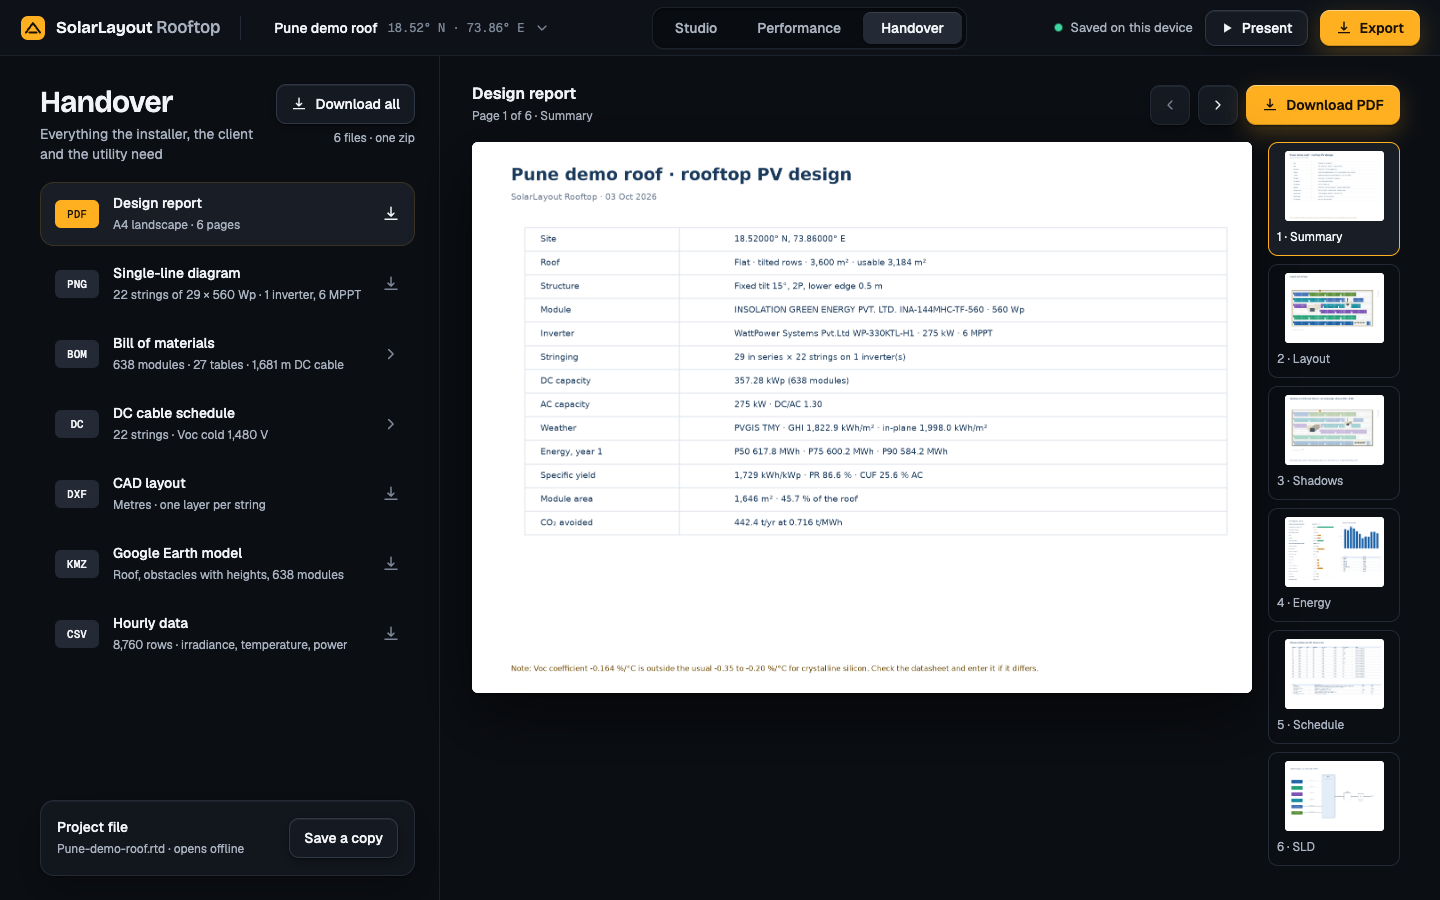
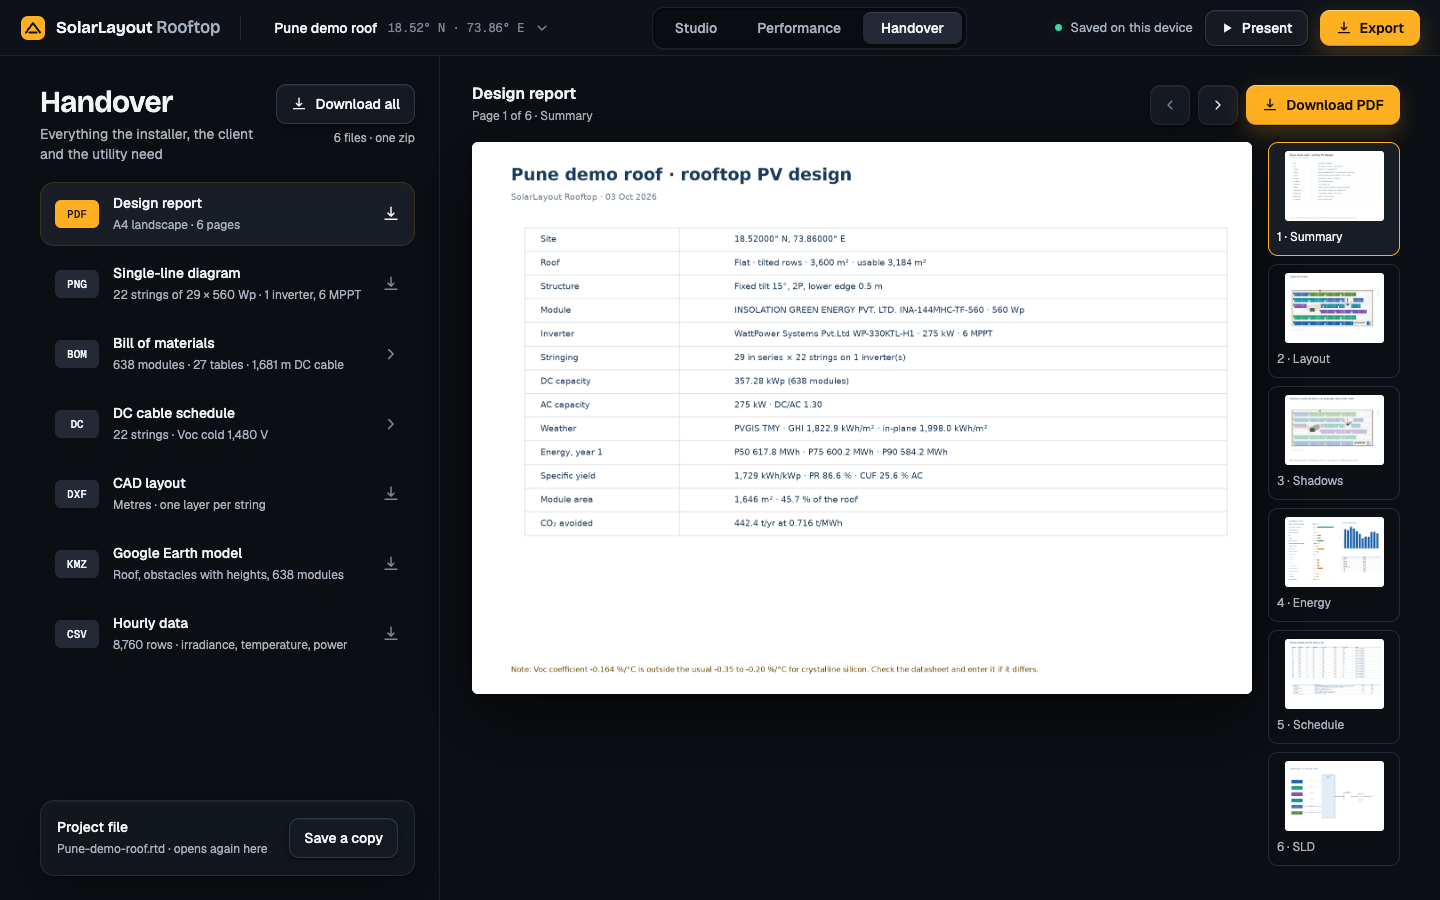
The previews of the Open a project and Handover boards, with the words of #162

diff --git a/plan/STATE.md b/plan/STATE.md
@@ -31,8 +31,9 @@ thread: no added time or memory. The demo unchanged. **Deployed:** the owner dep
 Then #162 (#165, D89): a project the app accepts can always be run and opened (a weather CSV 3 MB, a PAN or OND
 256 KB, a project file 5 MB; the largest project is a request of 4.53 MB to run, 5.36 MB to open, of AWS's 6.29 MB);
 the CSV dialog refuses a larger file before sending it; no words of a desktop app, no remedy for a file the app never
-writes; Handover's project file "opens again here". The boards' sources changed with it (`OpenProject`, `Handover*`);
-their previews and the canvas still show the old words. Not deployed (#165).
+writes; Handover's project file "opens again here". The boards changed with it (`OpenProject`, `Handover*`): sources,
+previews (rendered as `docs/design/README.md` says, checked against the old ones first) and the canvas (version 45, the six
+files only). Not deployed (#165).
 **Next:** a new task as the owner names it; the browser groups run when the owner says (#157's suites, #151's mobile fixes, and the Strings
 lens pictures whose options D and E #160 changed); Phase 15's clips on an iPhone or iPad.
 
